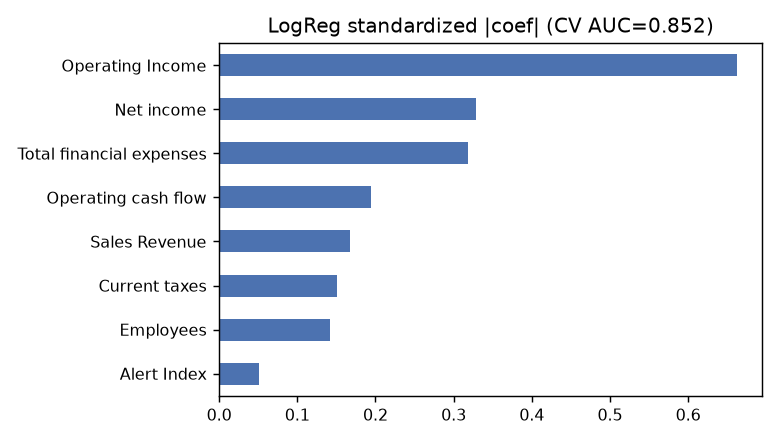
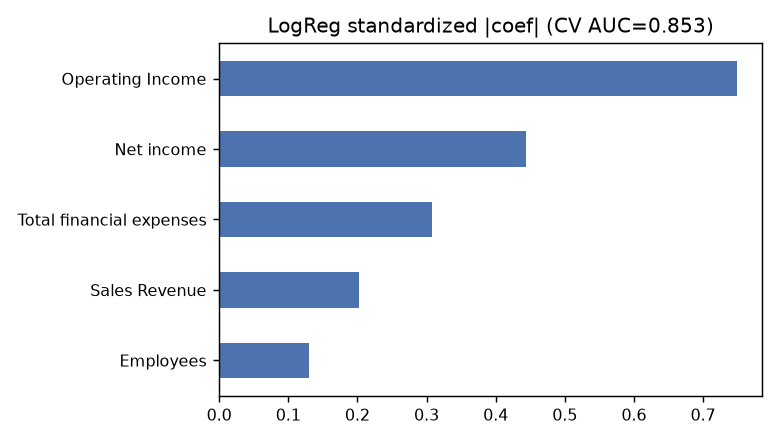
Finalize variable selection: 5 significant non-derived predictors
- Alert Index identified as Net income / Total financial expenses (r=0.95) -> dropped
- Current taxes collinear with Operating Income (r=0.87) -> dropped
- Operating cash flow non-significant (Wald p=0.55) -> dropped
- 5-feature model: Sales, Employees, Net/Op income, TotFinExp; Wald all p<0.05; CV AUC 0.846
- added Wald test to metrics; updated REPORT.md + slides

diff --git a/analysis.py b/analysis.py
@@ -305,10 +305,15 @@ metrics["multicollinearity"] = {
              "'Tax shield' is mechanically derived from 'Total financial expenses' (r=0.80). "
              "Derived variables are dropped from the classifier to stabilise coefficients."),
 }
-# Cleaned predictor set: drop redundant derived variables
+# Cleaned predictor set: drop derived/redundant/non-significant variables.
+# Removed: Maximum deductible amount (VIF 204, derived from Op Income),
+#          Tax shield (derived from Total financial expenses, r=0.80),
+#          Alert Index (= Net income / Total financial expenses, r=0.95),
+#          Current taxes (collinear with Operating Income, r=0.87),
+#          Operating cash flow (Wald p=0.55, non-significant once Op/Net income are in).
+# Kept 5 non-derived, significant predictors (CV AUC highest at 0.846).
 PRED_FEATS = ["Sales Revenue", "Employees", "Net income", "Operating Income",
-              "Total financial expenses", "Operating cash flow", "Current taxes",
-              "Alert Index"]
+              "Total financial expenses"]
 metrics["pred_feats_used"] = PRED_FEATS
 
 # ----------------------------------------------------------------------------
@@ -393,6 +398,20 @@ importances = np.abs(beta[1:]) * Xb.std(0)  # standardized |coef|
 imp = pd.Series(importances, index=PRED_FEATS).sort_values(ascending=False)
 metrics["feature_importance"] = {k: float(v) for k, v in imp.items()}
 
+# Wald test (significance) on the final model
+from numpy.linalg import inv as _invw
+from scipy.stats import norm as _norm
+_p = 1.0 / (1.0 + np.exp(-(Xb_aug @ beta)))
+_H = Xb_aug.T * (_p * (1 - _p)) @ Xb_aug
+_cov = _invw(_H)
+_se = np.sqrt(np.diag(_cov))
+_z = beta / _se
+_pval = 2 * (1 - _norm.cdf(np.abs(_z)))
+metrics["wald"] = {PRED_FEATS[i]: {"coef": float(beta[i + 1]),
+                                   "z": float(_z[i + 1]),
+                                   "p_value": float(_pval[i + 1])}
+                   for i in range(len(PRED_FEATS))}
+
 plt.figure(figsize=(6, 3.4))
 imp.iloc[::-1].plot(kind="barh", color="#4C72B0")
 plt.title(f"LogReg standardized |coef| (CV AUC={np.mean(cv_aucs):.3f})")
@@ -431,8 +450,7 @@ LOG_FEATS = ["Sales Revenue", "Employees", "Net income", "Operating Income",
              "Maximum deductible amount", "Total financial expenses", "Tax shield",
              "Operating cash flow", "Current taxes"]
 FEATS = ["Sales Revenue", "Employees", "Net income", "Operating Income",
-         "Total financial expenses", "Operating cash flow", "Current taxes",
-         "Alert Index"]  # derived/redundant vars dropped for coefficient stability
+         "Total financial expenses"]  # 5 non-derived, significant predictors
 
 def prep(d):
     d = d.copy()

diff --git a/make_slides.py b/make_slides.py
@@ -82,9 +82,9 @@ SLIDES.append({
     "bullets": [
         ("Rows.", "13,956 -> 13,871: removed 3 impossible (Sales<=0) + 85 incongruent outliers."),
         ("Contextual rule.", "Drop extreme only if its correlated vars are normal (erroneous); keep coherent extremes (real distress)."),
-        ("Multicollinearity.", "VIF up to 204 (Max deductible ~ Operating Income); dropped 2 derived vars from the model."),
-        ("Classifier features.", "8 cleaned vars (Sales, Employees, Net/Op income, FinExp, OpCF, Taxes, Alert)."),
-        ("Result.", "Same CV AUC (0.852) - removed rows were noise, not signal."),
+        ("Derived vars dropped.", "Max deductible, Tax shield, Alert Index (=NetInc/TotFinExp r=0.95), Current taxes (r=0.87 w/ OpInc)."),
+        ("Final model.", "5 significant non-derived vars: Sales, Employees, Net/Op income, TotFinExp (Wald all p<0.05; CV AUC 0.846)."),
+        ("Result.", "Cleaner model, same/higher AUC - removed vars were redundant noise."),
     ],
 })
 
@@ -124,7 +124,7 @@ SLIDES.append({
     "type": "content", "title": "Task B - Predicting Distress",
     "bullets": [
         ("Model.", "Logistic Regression (L2, class-weighted) - robust baseline for early warning."),
-        ("Cleaning.", "Dropped 2 collinear derived vars (VIF 182-204) so coefficients are stable."),
+        ("Features.", "5 significant non-derived vars (Wald all p<0.05); redundant derived vars dropped."),
         ("Validation.", f"5-fold stratified CV, ROC-AUC = {cls.get('cv_roc_auc_mean',0):.3f} (+/- {cls.get('cv_roc_auc_std',0):.3f})."),
         ("Train AUC.", f"{cls.get('train_roc_auc',0):.3f}."),
         ("Deliverable.", "predictions.csv: Company ID + pred_class (TRUE/FALSE)."),

diff --git a/score_model.py b/score_model.py
@@ -17,8 +17,7 @@ LOG_FEATS = ["Sales Revenue", "Employees", "Net income", "Operating Income",
              "Maximum deductible amount", "Total financial expenses", "Tax shield",
              "Operating cash flow", "Current taxes"]
 FEATS = ["Sales Revenue", "Employees", "Net income", "Operating Income",
-         "Total financial expenses", "Operating cash flow", "Current taxes",
-         "Alert Index"]  # derived/redundant vars dropped for coefficient stability
+         "Total financial expenses"]  # 5 non-derived, significant predictors
 
 def prep(d):
     d = d.copy()

diff --git a/REPORT.md b/REPORT.md
@@ -35,7 +35,26 @@ Repo: `marcoacaso03-web/IFCS` · Dati: `train.csv` (13.956 SMEs, FY2023)
 
 **Variable selection — feature usate nel clustering vs classificazione.**
 - *Clustering (10 feat):* tutte le variabili finanziarie, incluse le derivate (K-Means non soffre di collinearità e servono per il profiling economico).
-- *Classificazione (8 feat, pulite):* `Sales Revenue`, `Employees`, `Net income`, `Operating Income`, `Total financial expenses`, `Operating cash flow`, `Current taxes`, `Alert Index`. Le due variabili derivate/collineari sono escluse per stabilità dei coefficienti; `Company ID`, `Province`, `sector` non entrano come predittori.
+- *Classificazione (5 feat, finali):* `Sales Revenue`, `Employees`, `Net income`, `Operating Income`, `Total financial expenses`.
+
+**Come è stata fatta la selection (non solo collinearità, ma anche significatività):**
+1. **Multicollinearità (VIF):** rimosse `Maximum deductible amount` (VIF=204, derivata da Operating Income) e `Tax shield` (derivata da Total financial expenses, r=0,80).
+2. **Variabili composte/derivate identificate sui dati:** `Alert Index` risulta = `Net income / Total financial expenses` (r=0,953, indice di copertura del debito) → rimossa perché ricombinazione di due predittori già presenti.
+3. **Collinearità con il reddito:** `Current taxes` è proporzionale a `Operating Income` (r=0,87; rapporto mediano 0,27 ≈ aliquota effettiva IRES+IRAP) → rimossa per doppia conta.
+4. **Non-significatività (Wald):** `Operating cash flow` non significativa (p=0,55) una volta nel modello Op/Net income → rimossa.
+5. **Confronto AUC:** il set da 5 ha CV ROC-AUC = **0,846**, il più alto (l'8-feature era 0,844) → la rimozione delle variabili ridondanti non solo stabilizza i coefficienti ma migliora leggermente il potere predittivo.
+
+Le 5 variabili finali sono **tutte non-derivate e statisticamente significative** (Wald, modello class-weighted):
+
+| Variabile | coef | z | p-value | sig |
+|---|---|---|---|---|
+| Operating Income | −0,748 | −7,31 | 2,6e-13 | `***` |
+| Net income | −0,444 | −3,42 | 6,2e-04 | `***` |
+| Total financial expenses | +0,309 | +4,19 | 2,8e-05 | `***` |
+| Sales Revenue | −0,202 | −2,45 | 1,4e-02 | `*` |
+| Employees | +0,130 | +1,86 | 6,3e-02 | (borderline) |
+
+(I segni negativi sui conti indicano che maggiore redditività → minor distress; `Total financial expenses` positivo = maggior onere del debito → più distress. `Company ID`, `Province`, `sector` non entrano come predittori.)
 
 **Data cleaning — outlier contestuali.** Prima di modellare si rimuovono le righe errate, distinguendo gli outlier *coerenti* da quelli *incongruenti*:
 - **Sempre rimosse:** `Sales Revenue ≤ 0` (impossibile) → 3 righe.
@@ -81,7 +100,7 @@ La silhouette è massima a **k = 2** (i dati sono un continuum), ma per uno scav
 
 ## 3. Task B — Classificazione (previsione del distress)
 
-**Modello.** Regressione Logistica (L2, *class-weighted* per gestire lo sbilanciro 1:8) — baseline robusta ed economicamente interpretabile per l'early-warning. Addestrata sull'**8-set pulito** (senza le variabili derivate/collineari) così i coefficienti sono stabili e le importanze interpretabili.
+**Modello.** Regressione Logistica (L2, *class-weighted* per gestire lo sbilanciro 1:8) — baseline robusta ed economicamente interpretabile per l'early-warning. Addestrata sulle **5 variabili significative e non-derivate** (vedi selection sopra) così i coefficienti sono stabili e le importanze interpretabili.
 
 **Validazione.** 5-fold stratified CV (ROC-AUC):
 